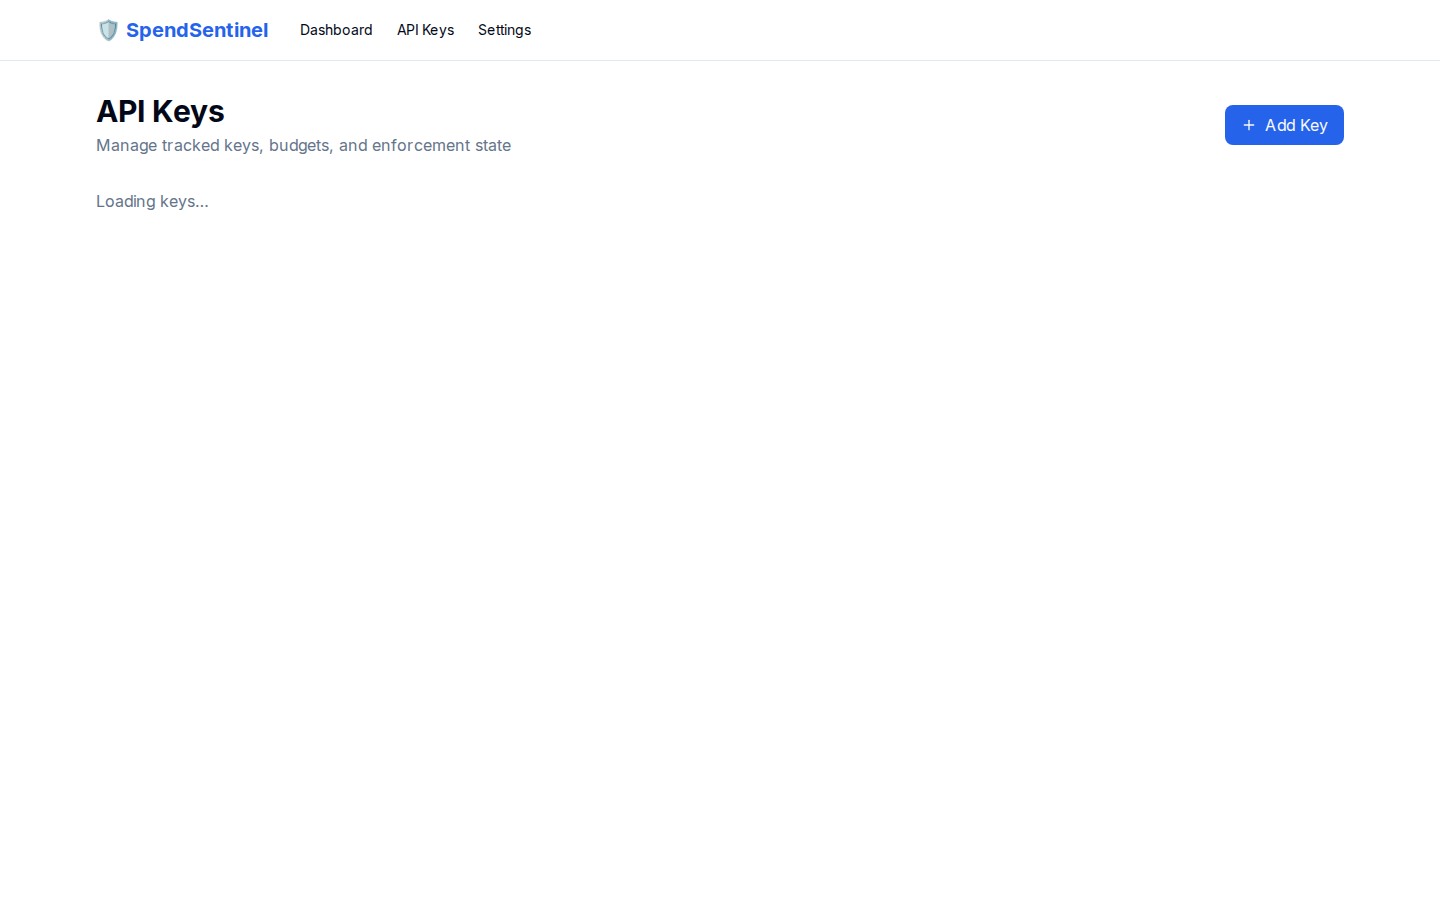
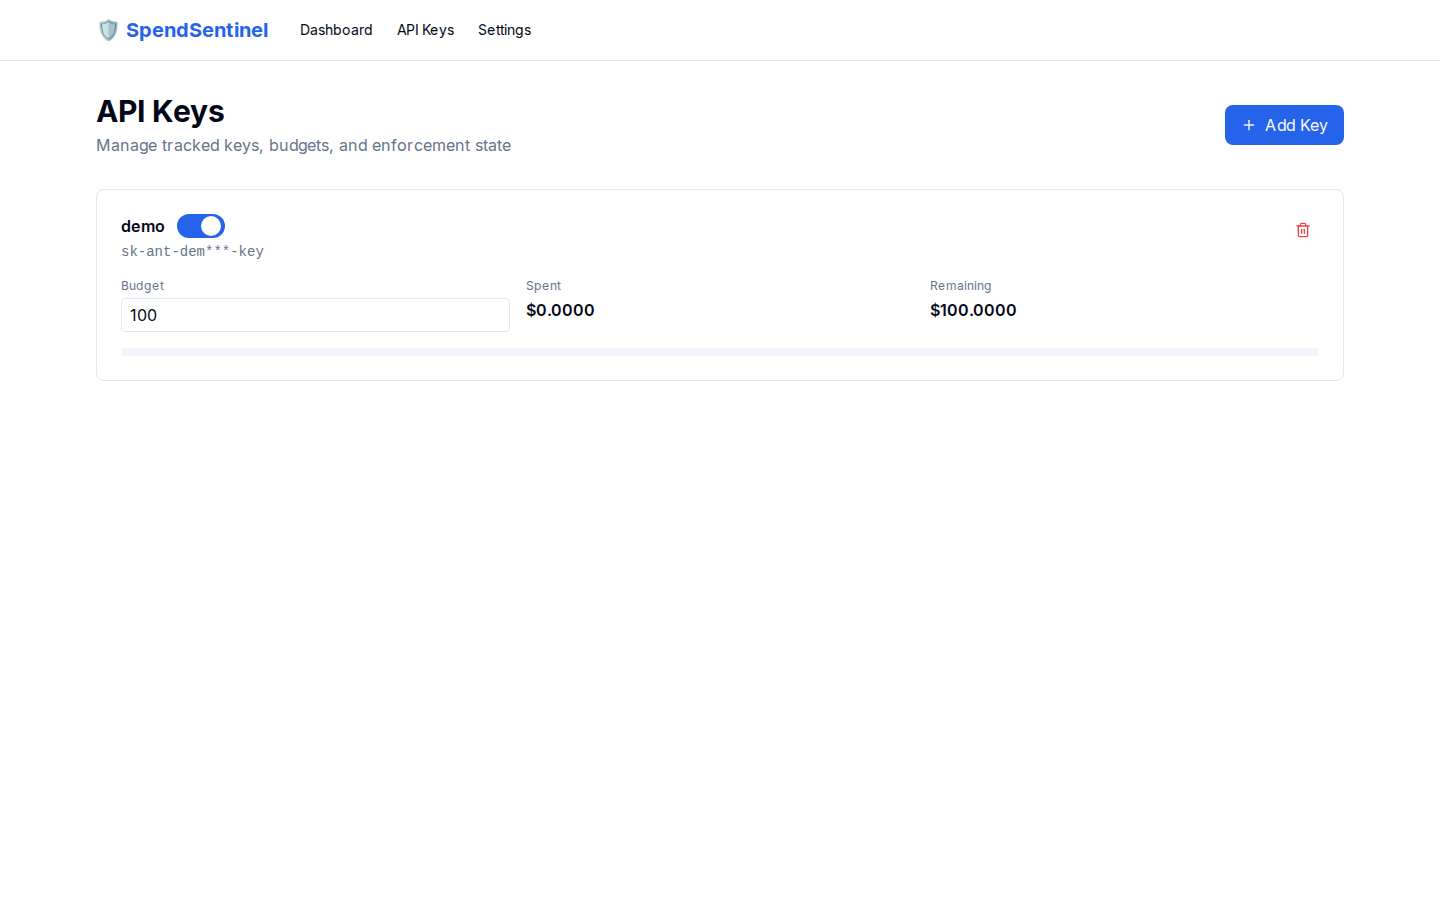
fix: refresh screenshots and remove unneeded docs

diff --git a/README.md b/README.md
@@ -110,8 +110,7 @@ For live forwarding:
 - Refuses to run unauthenticated in production mode
 - Uses header-only key ingestion (`x-api-key`) to reduce accidental payload leaks
 - Demo-key auto-seeding is dev/demo-only and can be disabled
-
-See `PRODUCTION_HARDENING_PLAN.md` for the SaaS-ready migration path.
+- This repo is intentionally local-first and operator-focused
 
 ---
 
